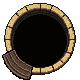
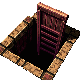
계단을 포기하고 «뚜껑문»으로 바꾼다 — 굽는 쪽이 못 그리는 물건은 조리법으로 안 나온다 (V-166)

diff --git a/hs/main.js b/hs/main.js
@@ -988,7 +988,9 @@ function drawStairs() {
   }
   const near = Math.hypot(G.player.x - s.x, G.player.y - s.y) < 70;
   ctx.fillStyle = near ? "#bfe8c8" : "#6a9a7a"; ctx.font = "13px 'Times New Roman',serif"; ctx.textAlign = "center";
-  ctx.fillText(near ? "▼ F — 다음 층" : "▼ 계단", s.x, s.y - STAIR_H / 2 - 10);
+  // V-166: 그림이 «계단»이 아니라 뚜껑문이라 이름을 그림에 맞춘다(픽셀랩이 위에서 본
+  // 내려가는 계단을 여덟 번 못 그렸다 — 그릴 수 있는 물건으로 바꾼 것).
+  ctx.fillText(near ? "▼ F — 다음 층" : "▼ 아래로", s.x, s.y - STAIR_H / 2 - 10);
 }
 
 // 궤짝은 «바닥에» 그려져 유닛에 가린다(V-154 B: 좀비 몸에 묻혀 동전만 했다). 몸통을

diff --git a/hs/index.html b/hs/index.html
@@ -47,7 +47,7 @@
     </div>
   </div>
 
-  <div id="hint">WASD 이동 · 좌클릭 뼈창 · 1·2·3 등급 소환(해골/거대/거인) · Q 소환 · Z 자리+ / X 등급 해금·강화 · E 시체폭발 · F 계단</div>
+  <div id="hint">WASD 이동 · 좌클릭 뼈창 · 1·2·3 등급 소환(해골/거대/거인) · Q 소환 · Z 자리+ / X 등급 해금·강화 · E 시체폭발 · F 아래로</div>
 </div>
 
 <div id="dead">
